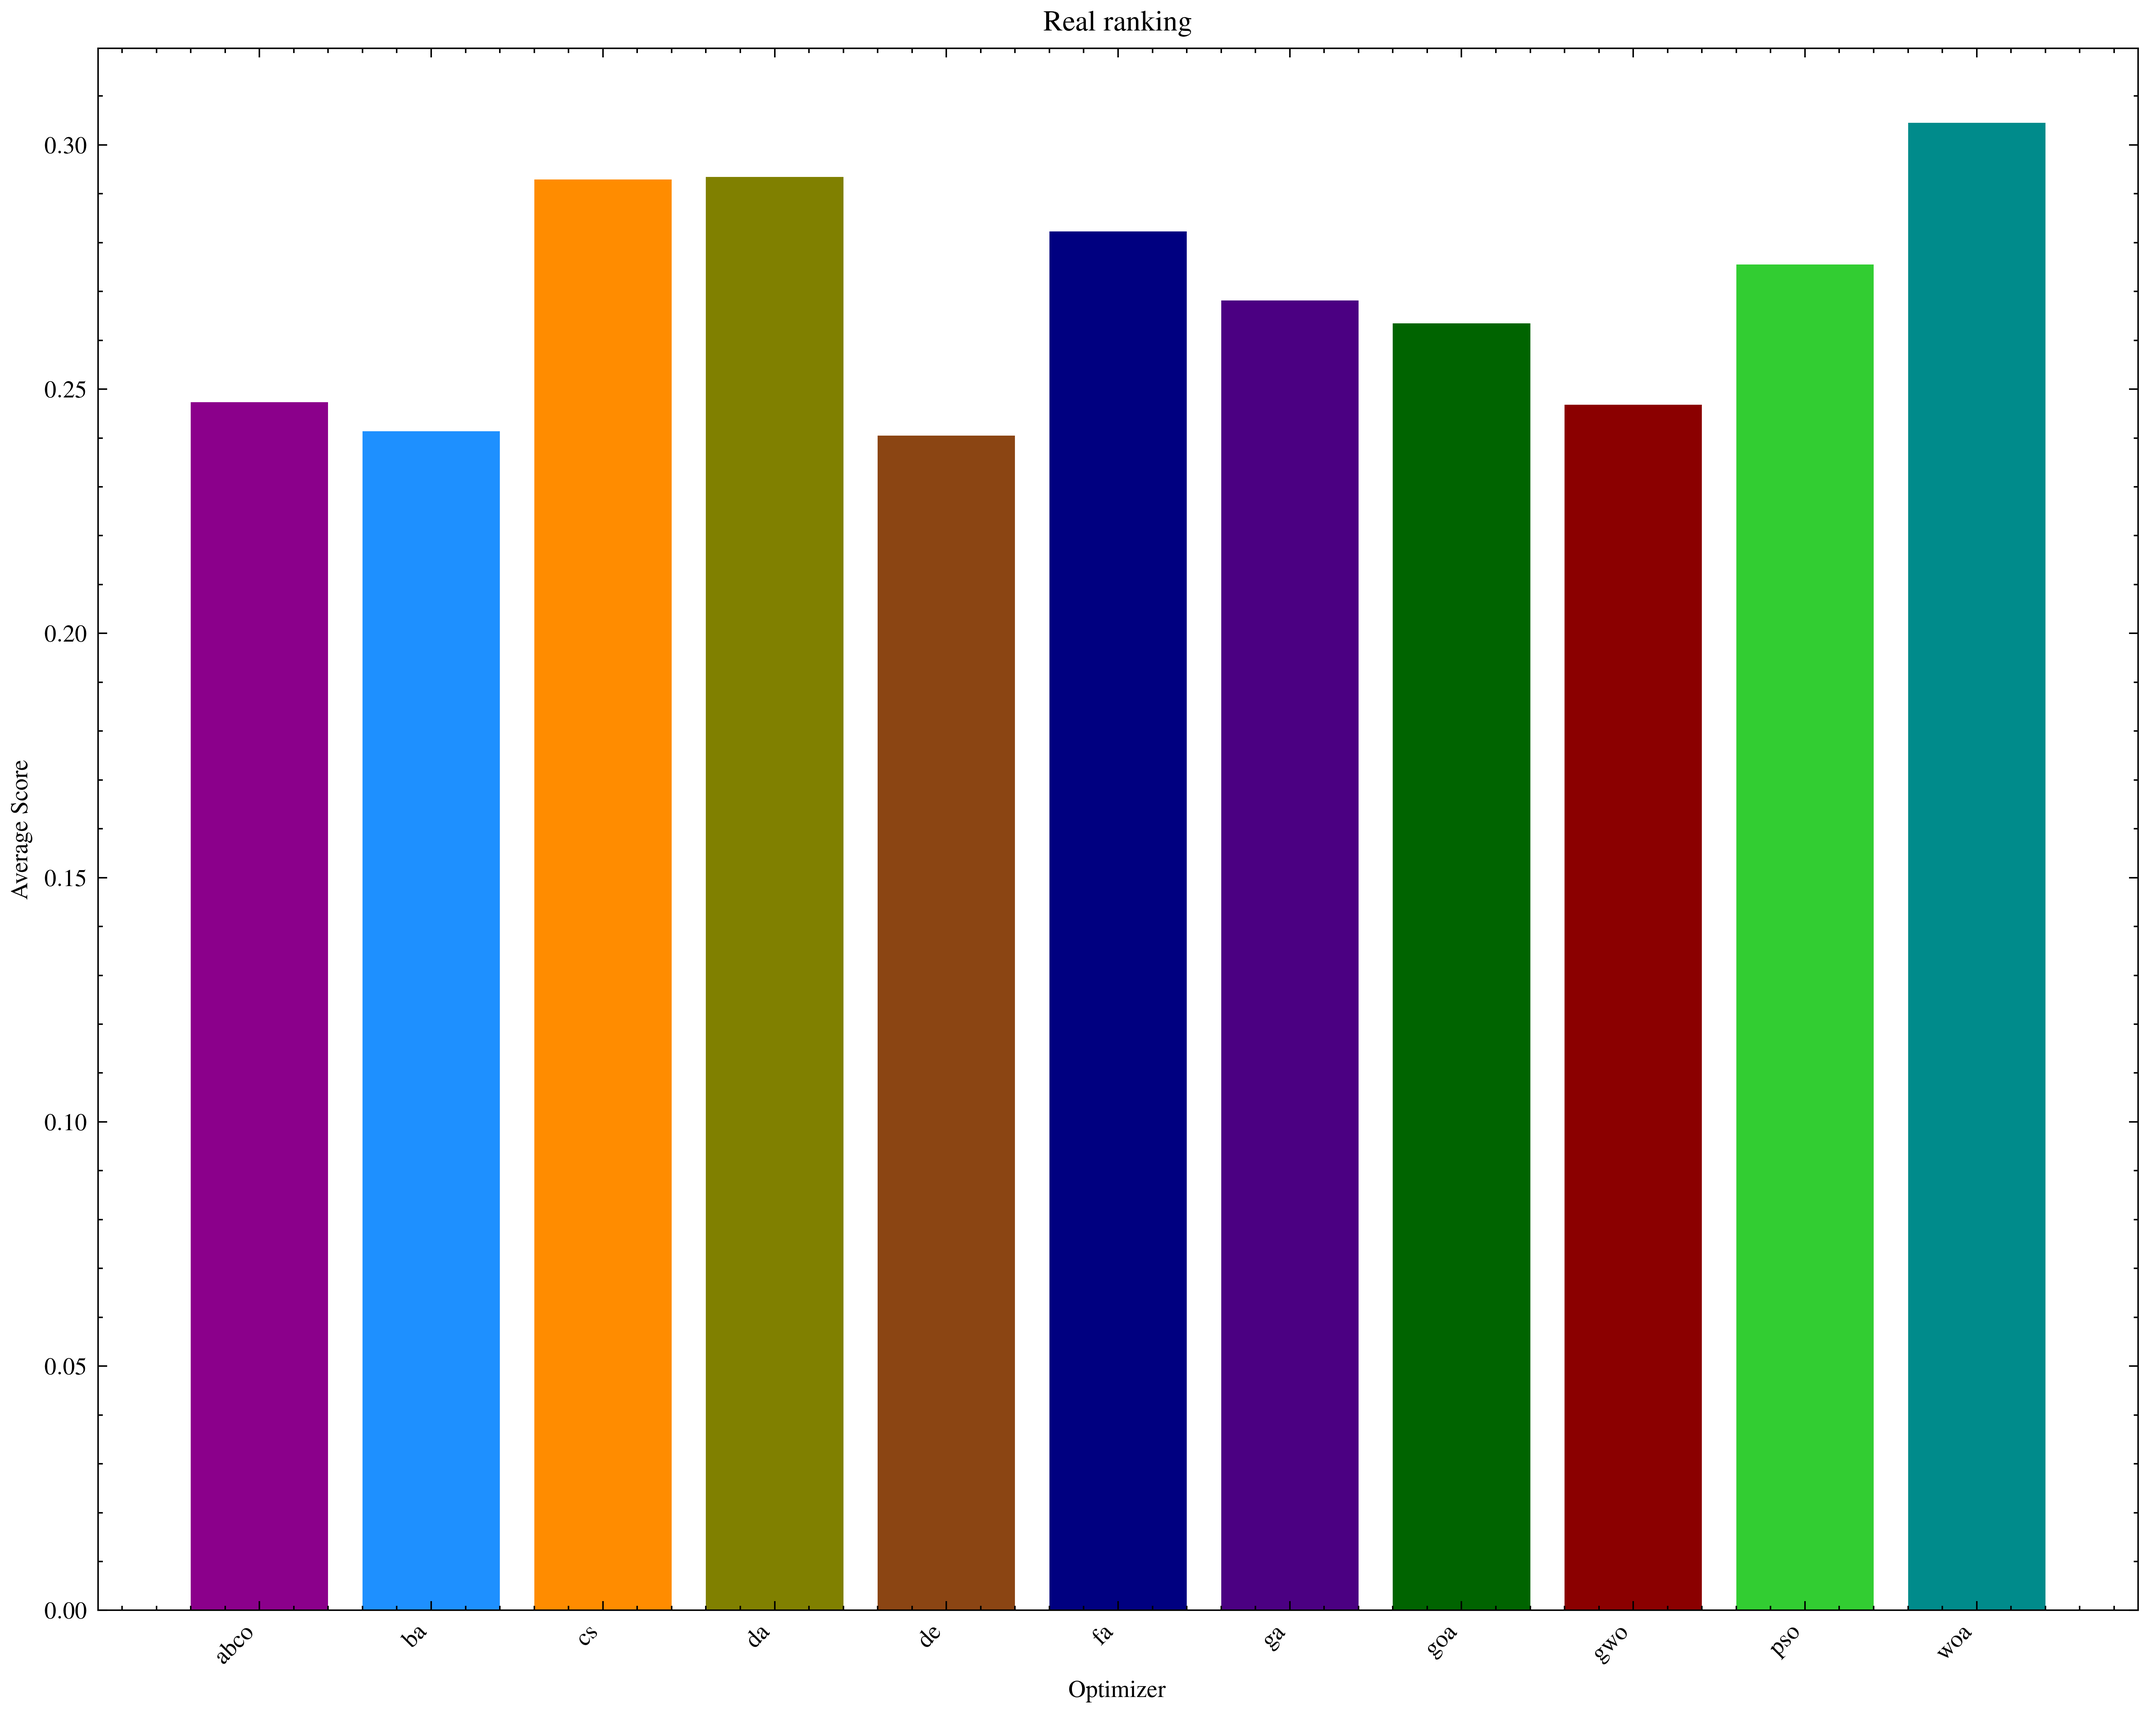
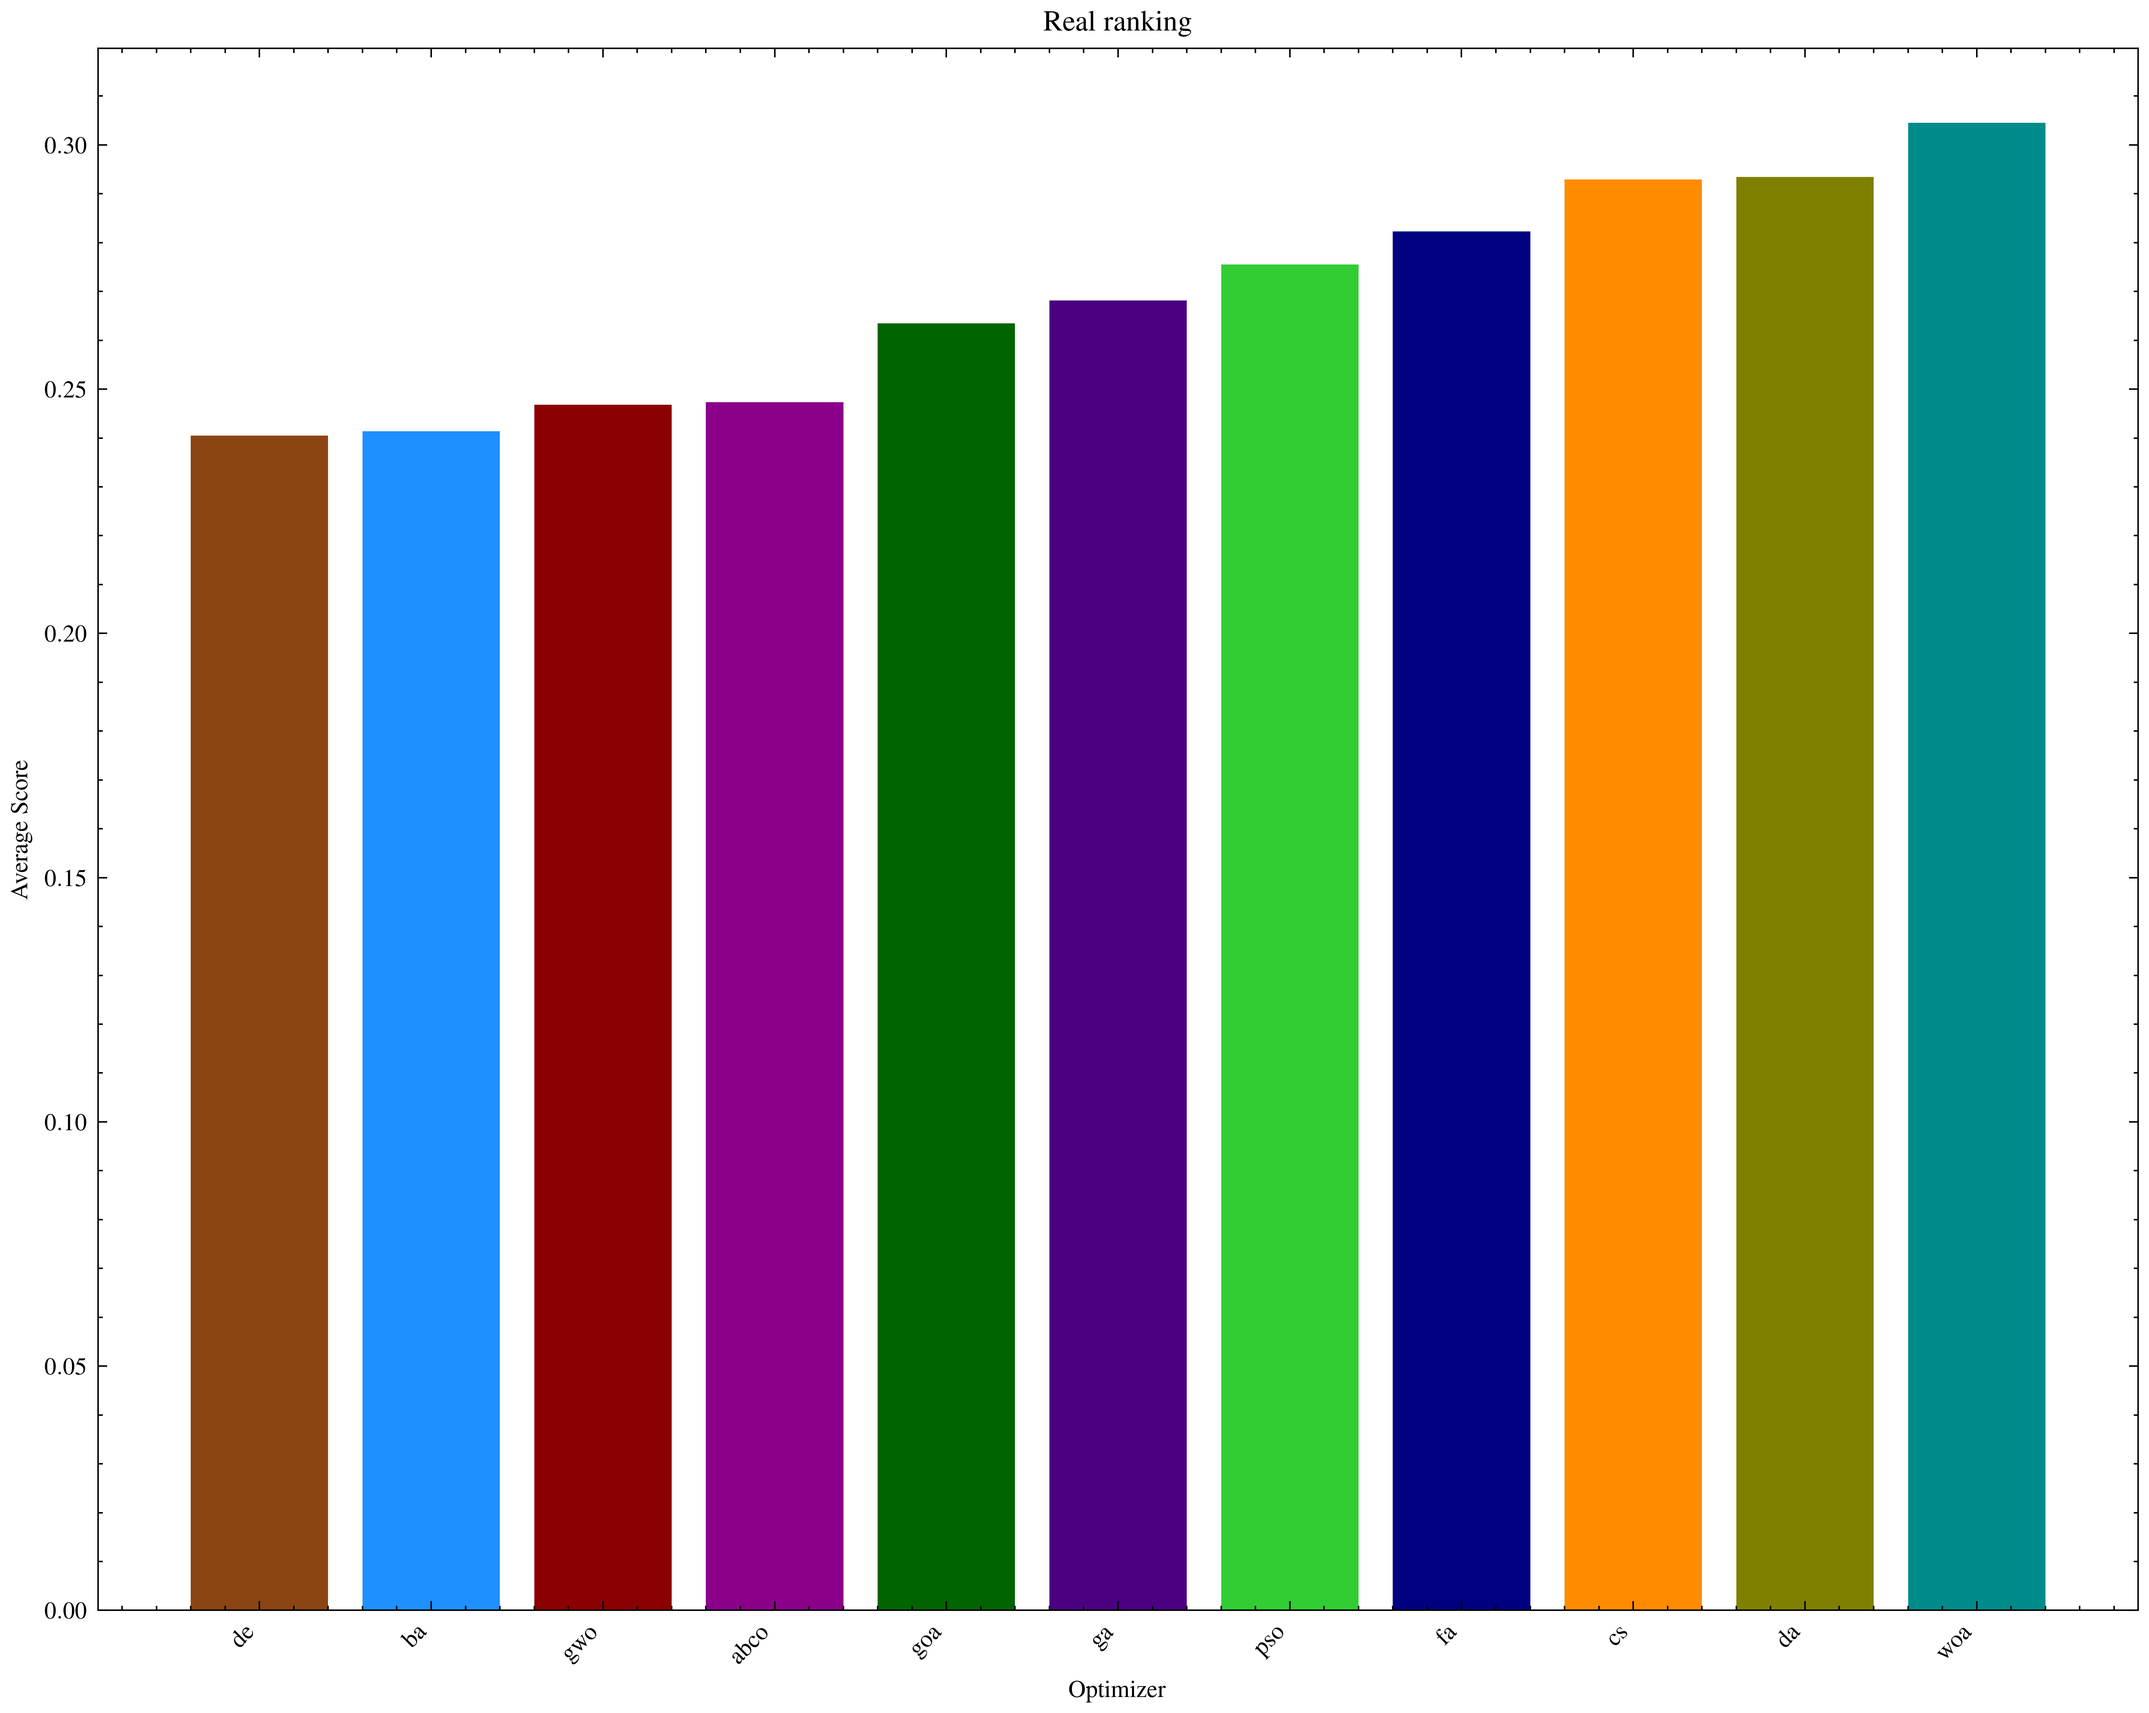
Added dummy optimizer

diff --git a/src/pyMetaheuristic/algorithm/dummy.py b/src/pyMetaheuristic/algorithm/dummy.py
@@ -1,0 +1,109 @@
+import numpy as np
+import random
+
+
+def target_function():
+    pass
+
+
+############################################################################
+
+# Transfer functions S-Shaped
+
+
+def s_shaped_transfer_function(x, is_x_vector=False):
+    if is_x_vector:
+        threshold = np.random.random(x.shape)
+        return np.where(sigmoid(x) > threshold, 1, 0)
+    else:
+        threshold = np.random.rand()
+        return 1 if sigmoid(x) > threshold else 0
+
+
+def sigmoid(x):
+    return 1 / (1 + np.exp(-x))
+
+
+############################################################################
+
+# Transfer functions V-Shaped
+
+
+def v_shaped_transfer_function(x, delta_x, is_x_vector=False):
+    if is_x_vector:
+        threshold = np.random.random(x.shape)
+        return np.where(hyperbolic_tan(delta_x) > threshold, 1 - x, x)
+    else:
+        threshold = np.random.rand()
+        return 1 - x if hyperbolic_tan(delta_x) > threshold else x
+
+
+def hyperbolic_tan(x):
+    return np.abs(np.tanh(x))
+
+
+############################################################################
+
+
+def dummy_optimizer(swarm_size=3,
+                    min_values=[-5, -5],
+                    max_values=[5, 5],
+                    iterations=50,
+                    target_function=target_function,
+                    target_function_parameters=None,
+                    binary='s',
+                    verbose=True):
+    count = 0
+    fitness_values = []
+    position = np.zeros((swarm_size, len(min_values) + 4))
+    for i in range(swarm_size):
+        for j in range(len(min_values)):
+            position[i, j] = random.uniform(min_values[j], max_values[j])
+        target_function_parameters['weights'] = position[i, :-4]
+        fitness = target_function(**target_function_parameters)
+        position[i, -1] = fitness['fitness']
+        position[i, -2] = fitness['accuracy']
+        position[i, -3] = fitness['selected_features']
+        position[i, -4] = fitness['selected_rate']
+
+    best_global = np.copy(position[position[:, -1].argsort()][0, :])
+
+    for _ in range(iterations):
+        random_particle = random.randint(0, swarm_size - 1)
+        random_dimension = random.randint(0, len(min_values) - 4)
+        random_value = random.uniform(min_values[random_dimension],
+                                      max_values[random_dimension])
+
+        if (verbose):
+            print('Iteration = ', count, ' f(x) = ', best_global[-1])
+
+        if binary == 's':
+            position[random_particle,
+                     random_dimension] = s_shaped_transfer_function(
+                         random_value)
+        elif binary == 'v':
+            position[random_particle,
+                     random_dimension] = v_shaped_transfer_function(
+                         random_value, position[random_particle,
+                                                random_dimension])
+        else:
+            position[random_particle, random_dimension] = random_value
+
+        target_function_parameters['weights'] = position[random_particle, :-4]
+        fitness = target_function(**target_function_parameters)
+        position[random_particle, -1] = fitness['fitness']
+        position[random_particle, -2] = fitness['accuracy']
+        position[random_particle, -3] = fitness['selected_features']
+        position[random_particle, -4] = fitness['selected_rate']
+
+        if position[random_particle, -1] < best_global[-1]:
+            best_global = np.copy(position[random_particle])
+        count += 1
+        fitness_values.append({
+            'fitness': best_global[-1],
+            'accuracy': best_global[-2],
+            'selected_features': best_global[-3],
+            'selected_rate': best_global[-4]
+        })
+
+    return best_global, fitness_values

diff --git a/src/optimizer.py b/src/optimizer.py
@@ -27,6 +27,7 @@ from pyMetaheuristic.algorithm import (
     grey_wolf_optimizer,
     particle_swarm_optimization,
     whale_optimization_algorithm,
+    dummy_optimizer,
 )
 from sklearn.metrics import accuracy_score
 from sklearn.model_selection import train_test_split
@@ -54,7 +55,8 @@ class Optimizer:
         'ga': genetic_algorithm,
         'aco': ant_colony_optimization,
         'cs': cuckoo_search,
-        'de': differential_evolution
+        'de': differential_evolution,
+        'dummy': dummy_optimizer
     }
 
     # Optimizers names
@@ -327,6 +329,12 @@ class Optimizer:
                 "iterations": DEFAULT_ITERATIONS,
                 "F": 0.9,
                 "Cr": 0.2,
+                'binary': 's',
+            }
+        elif optimizer_lower == "dummy":  # TODO Add parameters
+            parameters = {
+                "swarm_size": DEFAULT_POPULATION_SIZE,
+                "iterations": DEFAULT_ITERATIONS,
                 'binary': 's',
             }
 

diff --git a/src/plots.py b/src/plots.py
@@ -281,16 +281,11 @@ def plot_rankings(ranking, title, optimizer_color):
 
     x_values = ranking['optimizer'].values
     y_values = ranking['avg'].values
-    unique_x_values = np.unique(x_values)
 
-    for i, x_value in enumerate(unique_x_values):
-        indices = np.where(x_values == x_value)[0]
-        color = optimizer_color.get(
-            x_value, 'gray')  # Default to gray if color not found
-        plt.bar(x_values[indices],
-                y_values[indices],
-                color=color,
-                label=x_value)
+
+    for x, y in sorted(zip(x_values, y_values), key=lambda x: x[1]):
+        color = optimizer_color[x]
+        plt.bar(x, y, color=color, label=x)
 
     plt.title(title)
     plt.xlabel('Optimizer')

diff --git a/src/pyMetaheuristic/algorithm/__init__.py b/src/pyMetaheuristic/algorithm/__init__.py
@@ -38,3 +38,4 @@ from .sos import symbiotic_organisms_search
 from .spbo import student_psychology_based_optimization
 from .tlbo import teaching_learning_based_optimization
 from .woa import whale_optimization_algorithm
+from .dummy import dummy_optimizer
